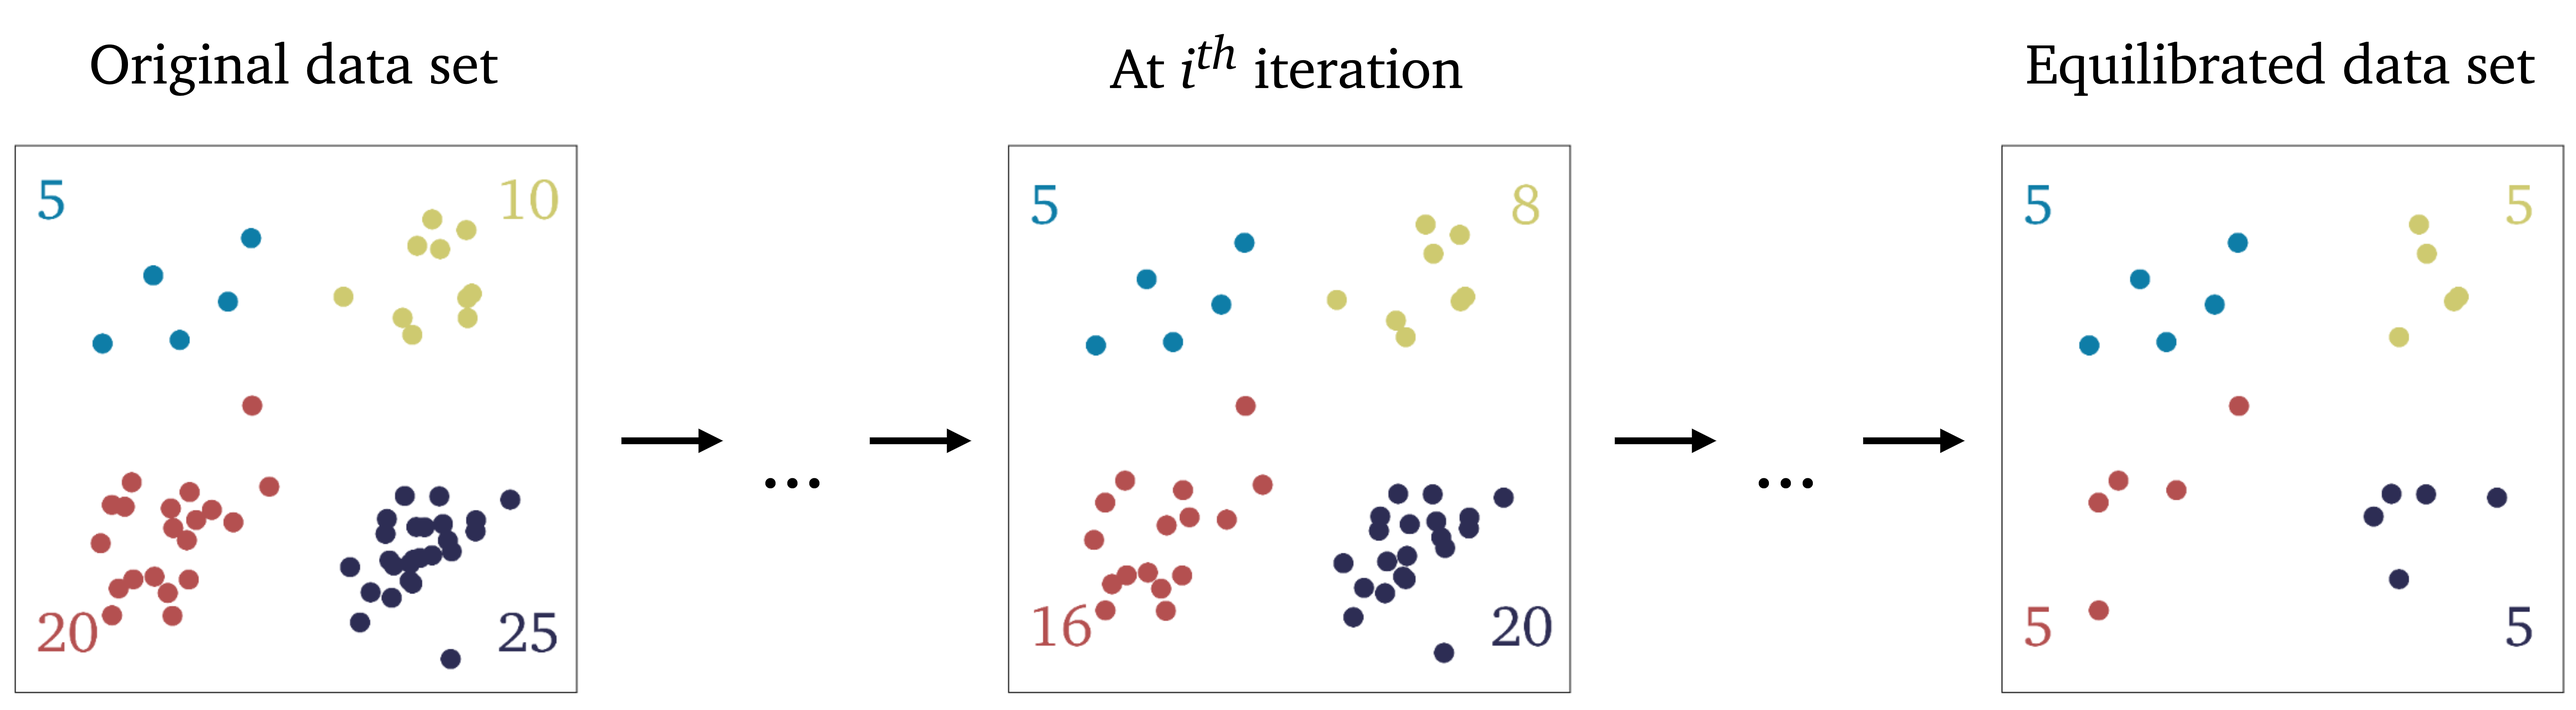
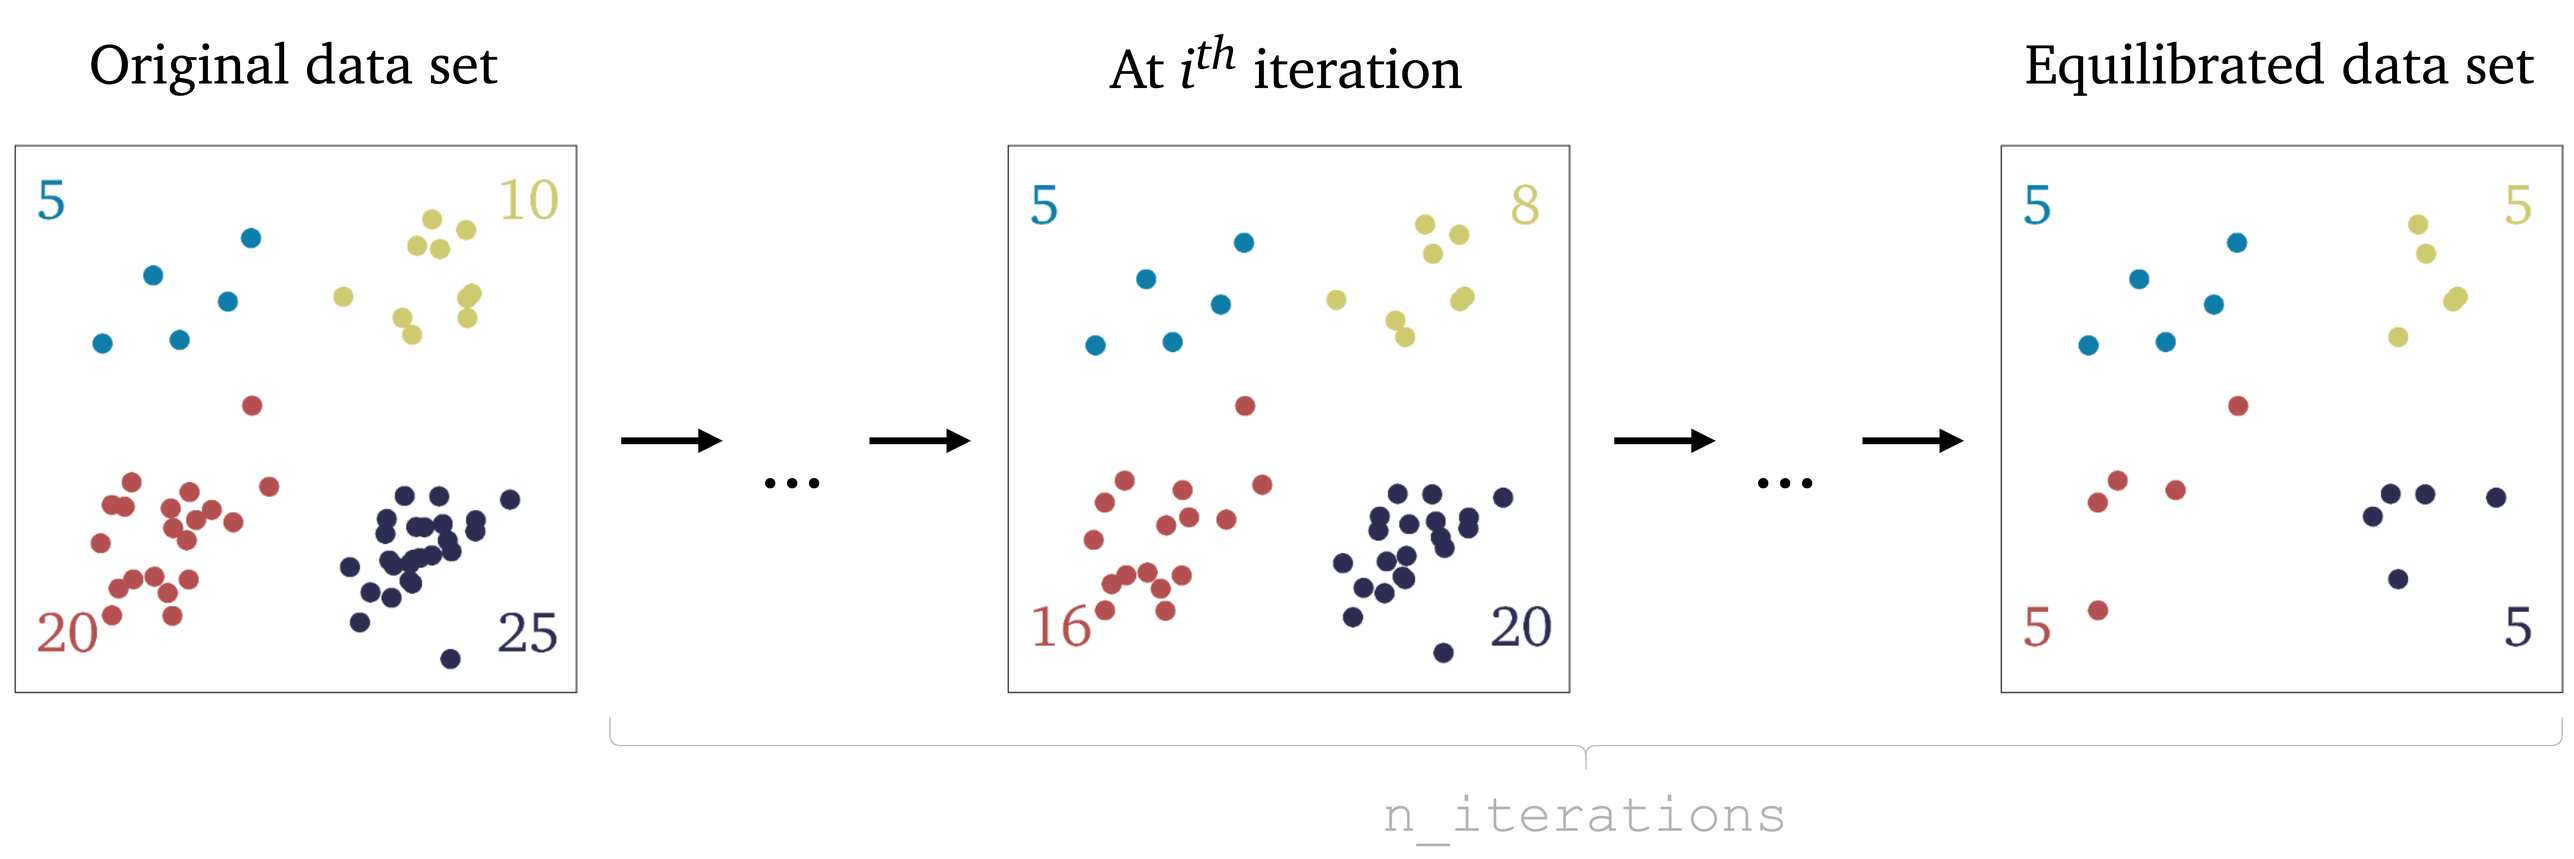
Docs updates

diff --git a/docs/tutorials/demo-cluster-biased-pca.rst b/docs/tutorials/demo-cluster-biased-pca.rst
@@ -21,7 +21,7 @@ This data set has 11 variables and 50,000 observations. To load the data set:
   state_space = pd.read_csv('COH2_slf_50000_state_space.csv', sep = ',', header=None).to_numpy()
   source_state_space = pd.read_csv('COH2_slf_50000_state_space_sources.csv', sep = ',', header=None).to_numpy()
 
-Cluster-biased PCA starts with clustering the data set using any algorithm of choice. In this example, we use K-Means clustering into 4  clusters:
+Cluster-biased PCA starts with clustering the data set using any algorithm of choice. In this example we use K-Means algorithm and partition the data set into 4 clusters:
 
 .. code:: python
 
@@ -62,7 +62,7 @@ Equilibrate cluster populations iteratively
 
   (eigenvalues, eigenvectors, pc_scores, pc_sources, idx_train, X_center, X_scale) = cbpca.equilibrate_cluster_populations(state_space, idx, scaling=scal_crit, X_source=source_state_space, n_components=n_components, biasing_option=biasing_option, n_iterations=10, stop_iter=0, verbose=True)
 
-With ``verbose=True`` we will see some detailed information on number of samples in each cluster:
+With ``verbose=True`` we will see some detailed information on number of samples in each cluster at each iteration:
 
 .. code-block:: text
 
@@ -121,7 +121,6 @@ To access the first eigenvector one can simply do:
 .. code:: python
 
   eigenvectors[:,0,:]
-
 
 similarly, to access the second eigenvector:
 
